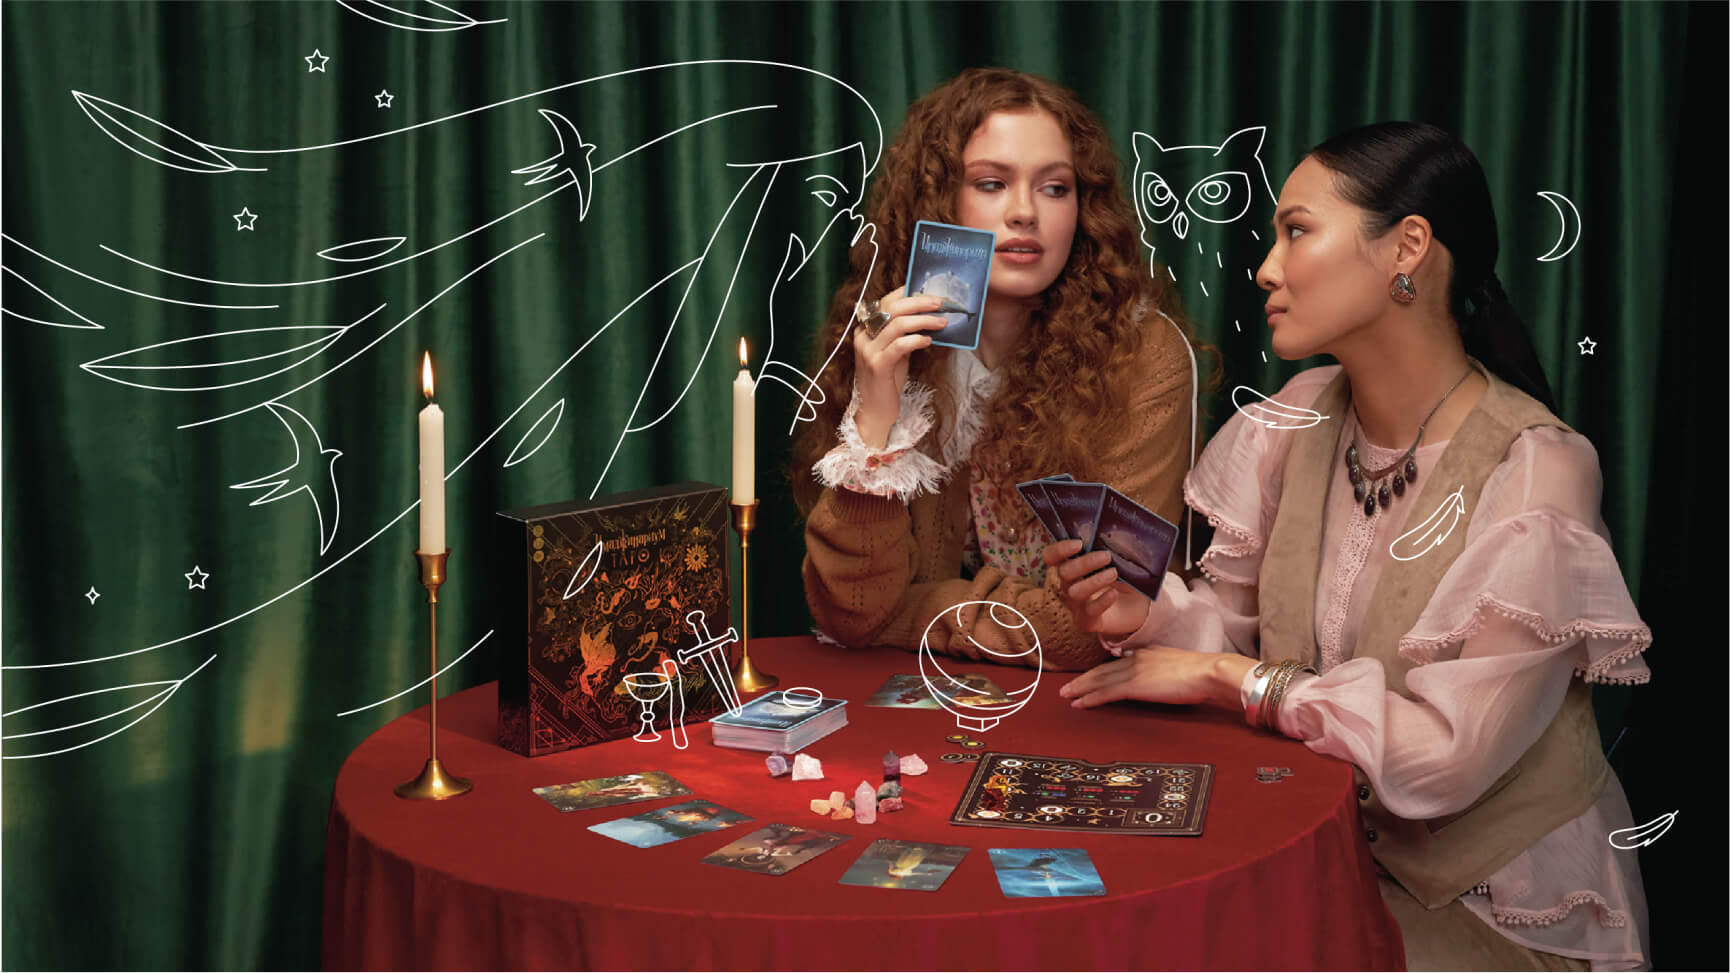
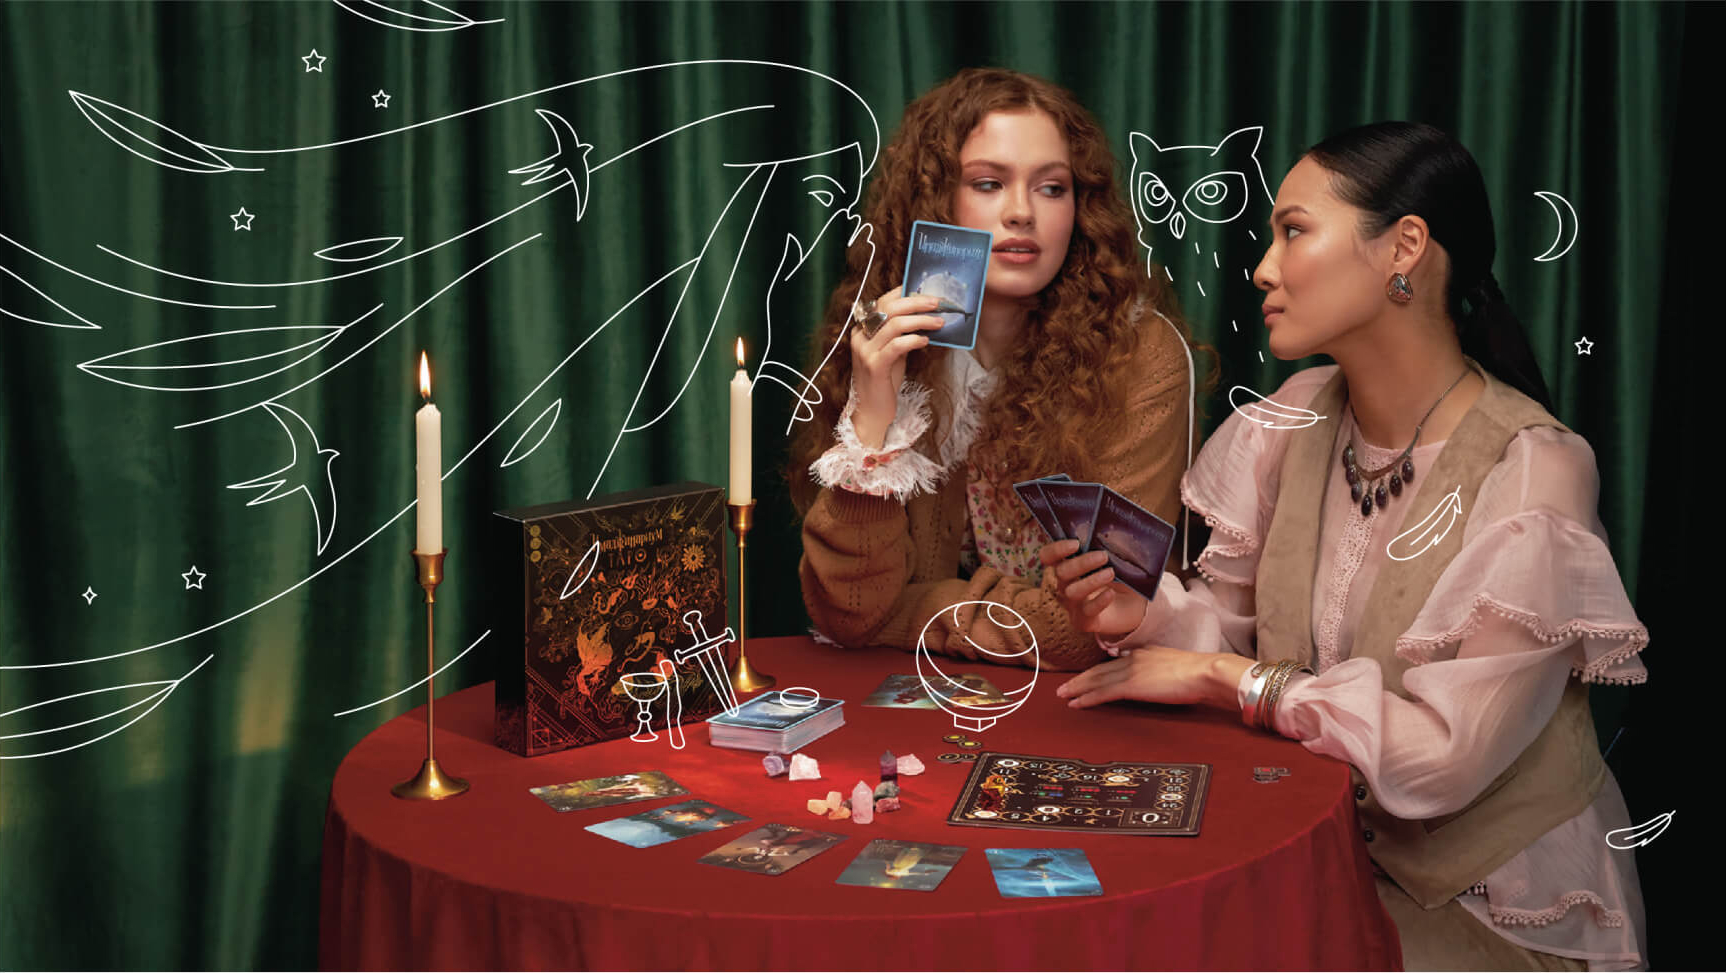
fixes

diff --git a/index.html b/index.html
@@ -98,7 +98,7 @@
                         </div>
                         <div class="swiper-slide">
                             <picture>
-                                <source class="main-slider__pic" srcset="assets/img/banner-pic3.png" media="(min-width: 600px)" />
+                                <source class="main-slider__pic" srcset="assets/img/banner-pic3.jpg" media="(min-width: 600px)" />
                                 <img class="main-slider__pic" loading="lazy" decoding="async" src="assets/img/banner-pic-mobile3.jpg" alt="">
                             </picture>
                         </div>
@@ -535,9 +535,9 @@
                             </li>
                             <li>
                                 <div class="soc-links">
-                                    <!-- <a href="#" class="soc-links__link">
+                                    <a href="https://t.me/cosmodromegames" class="soc-links__link" target="_blank">
                                         <img src="assets/img/tg-link.png" width="40" loading="lazy" decoding="async" alt="">
-                                    </a> -->
+                                    </a>
                                     <a href="https://vk.com/cosmodrome.games" class="soc-links__link" target="_blank">
                                         <img src="assets/img/vk-link.png" width="40" loading="lazy" decoding="async" alt="">
                                     </a>

diff --git a/assets/css/main.css b/assets/css/main.css
@@ -783,13 +783,13 @@ body {
 
 .whales-wrapper__cloud5{
     bottom: -600px;
-    left: 0;
+    left: -250px;
     animation: float 10s ease-in-out infinite;
 }
 
 .whales-wrapper__cloud6{
     bottom: -600px;
-    right: 0;
+    right: -250px;
     animation: float 7.5s ease-in-out infinite;
     animation-delay: 1s;
 }
